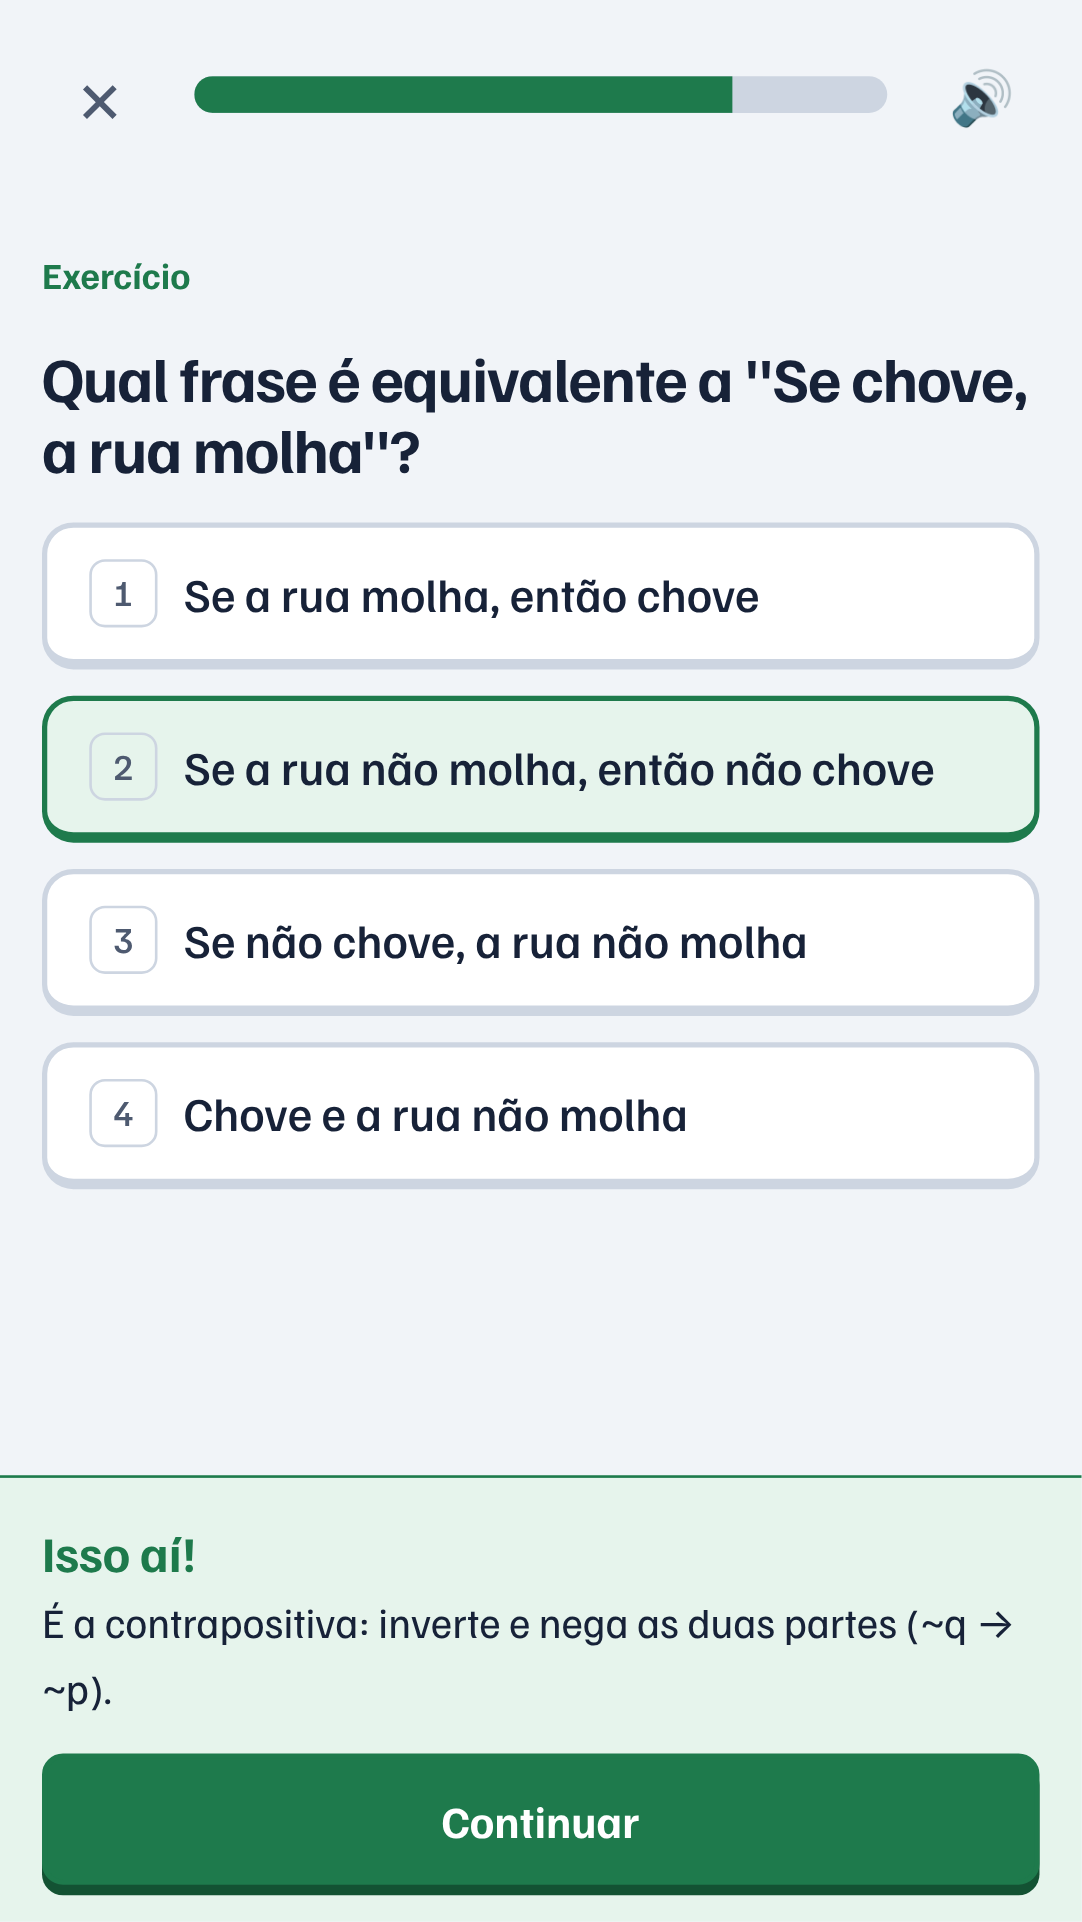
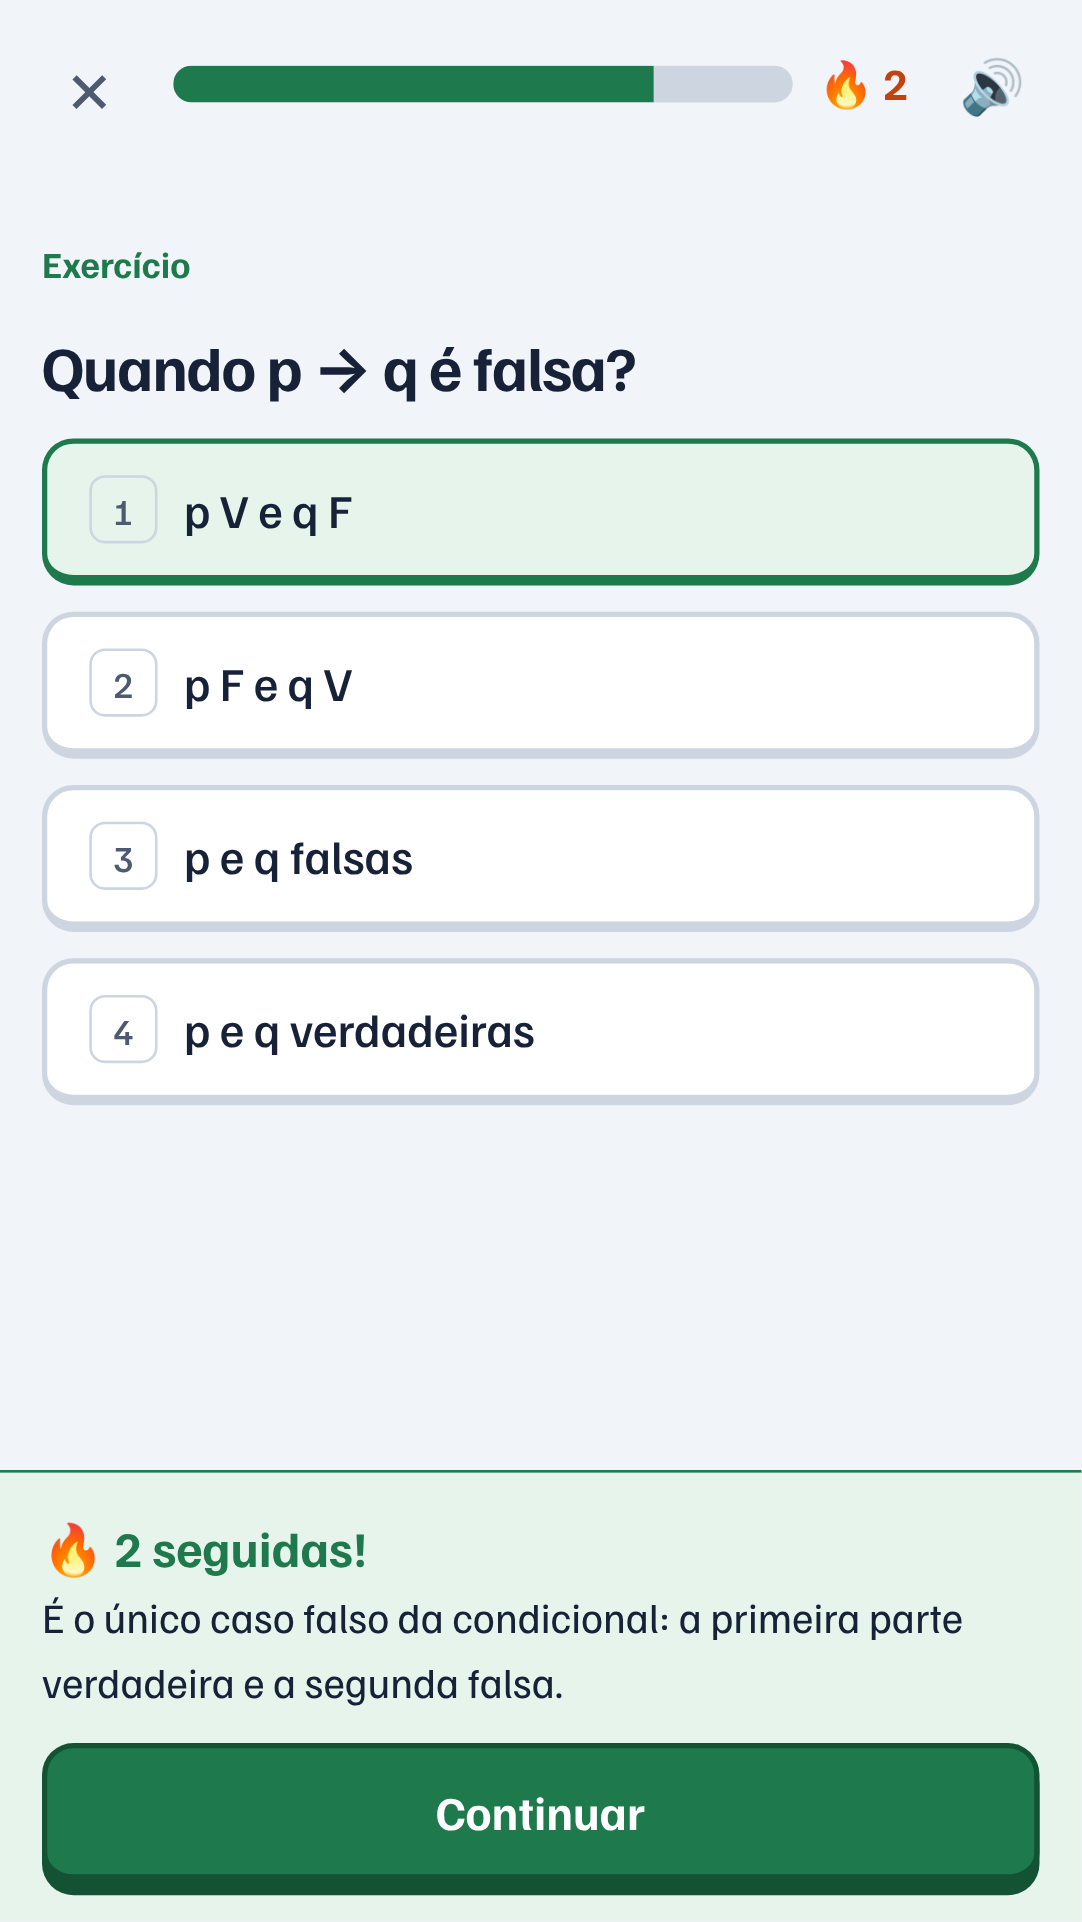
App: novas capturas da loja e textos atualizados
Claude-Session: https://claude.ai/code/session_019UdXTFjQ9RqKT9ZK53A5tN

diff --git a/app/LOJA.md b/app/LOJA.md
@@ -21,9 +21,9 @@ Cada lição tem:
 • Exemplo resolvido para você pensar antes de ver a resposta
 • Exercícios no estilo das bancas, com explicação de cada resposta
 
-Estude como num jogo: ganhe XP, estrelas e selos, mantenha a sua ofensiva de dias seguidos e suba de nível. Errou? A questão volta no fim da lição para você tentar de novo.
+Estude como num jogo: ganhe XP, estrelas e conquistas, cumpra as missões do dia, bata sua meta diária, mantenha a ofensiva de dias seguidos e suba no ranking semanal. Errou? A questão volta no fim da lição para você tentar de novo.
 
-Funciona sem internet e não pede cadastro. Seu progresso fica salvo no próprio celular.
+Comece sem cadastro: as lições funcionam até sem internet. Se quiser, crie uma conta grátis só com o e-mail para guardar o progresso na nuvem e disputar a liga semanal. Ative o lembrete diário para não perder a ofensiva.
 
 Feito pelo Prof. Tiago Gomes, professor de Raciocínio Lógico para concursos e criador do canal no YouTube com aulões e questões resolvidas de bancas como IDECAN, IBFC, Consulplan, IBGP e MS Concursos.
 
@@ -41,4 +41,4 @@ concursos, raciocínio lógico, estudo, lógica
 ## Imagens
 - Ícone 512×512: `assets/play-icone-512.png`
 - Imagem de destaque 1024×500: `assets/play-destaque-1024x500.png`
-- Capturas de celular (1082×1922): `assets/loja/1-mapa.png` a `5-exercicio.png`
+- Capturas de celular (1082×1922): os 6 arquivos de `assets/loja/`
